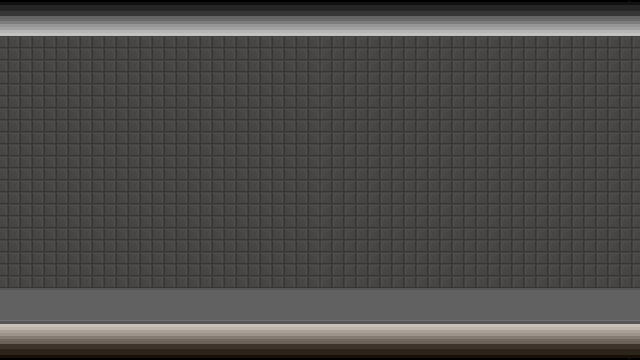
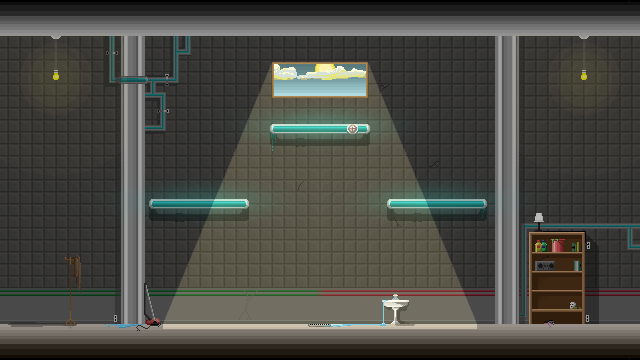
Added sdl2.dll and sdl2-config for windows build

diff --git a/src/Game.cpp b/src/Game.cpp
@@ -70,25 +70,29 @@ void Game::Init(const char *title, int xPos, int yPos, int width, int height, bo
 
     // Create game assets
     map = new GameObject("assets/background.png", Game::renderer, 0, 0, SCREEN_WIDTH, SCREEN_HEIGHT);
-    assets = new GameObject("assets/background_assets.png", Game::renderer, 0, 0, SCREEN_WIDTH, SCREEN_HEIGHT);
+    //assets = new GameObject("assets/background_assets.png", Game::renderer, 0, 0, SCREEN_WIDTH, SCREEN_HEIGHT);
     shadowOverlay = new GameObject("assets/shadow_overlay.png", Game::renderer, 0, 0, SCREEN_WIDTH, SCREEN_HEIGHT, 200);
 
     // Load players
     playerOne = new Character("assets/player_one.bmp", Game::renderer, 130, SCREEN_HEIGHT - 300);
     playerTwo = new Character("assets/player_one.bmp", Game::renderer, SCREEN_WIDTH - 150, SCREEN_HEIGHT - 300);
+
+    // Load tiles
+    tile[0] = new GameObject("assets/platform.png", Game::renderer, 230, SCREEN_HEIGHT - 285, 160, 20, 0);
+    tile[1] = new GameObject("assets/platform.png", Game::renderer, (SCREEN_WIDTH / 2) - 80, SCREEN_HEIGHT - 420, 160, 20, 0);
+    tile[2] = new GameObject("assets/platform.png", Game::renderer, SCREEN_WIDTH - 405, SCREEN_HEIGHT - 285, 160, 20, 0);
+
+    // Populate game objects into vector array for easy update and rendering
+    gameObjects = {map, playerOne, playerTwo, tile[0], tile[1], tile[2], shadowOverlay};
+
     // Load bullets
     for (int i = 0; i < 10; i++)
     {
         bulletOne[i] = new GameObject("assets/bullet.bmp", Game::renderer, 0, 0, 5, 5);
         bulletTwo[i] = new GameObject("assets/bullet.bmp", Game::renderer, 0, 0, 5, 5);
+        gameObjects.push_back(bulletOne[i]);
+        gameObjects.push_back(bulletTwo[i]);
     }
-    // Load tiles
-    tile[0] = new GameObject("assets/platform.png", Game::renderer, 100, SCREEN_HEIGHT - 250, 195, 20);
-    tile[1] = new GameObject("assets/platform.png", Game::renderer, (SCREEN_WIDTH / 2) - 98, SCREEN_HEIGHT - 400, 195, 20);
-    tile[2] = new GameObject("assets/platform.png", Game::renderer, SCREEN_WIDTH - 290, SCREEN_HEIGHT - 250, 195, 20);
-
-    // Populate game objects into vector array for easy update and rendering
-    gameObjects = {map, assets, playerOne, playerTwo, tile[0], tile[1], tile[2], shadowOverlay};
 }
 
 void Game::Start()
@@ -100,7 +104,7 @@ void Game::Start()
         SDL_RenderClear(renderer);
 
         map->Render();
-        assets->Render();
+        // assets->Render();
         shadowOverlay->Render();
 
         SDL_RenderPresent(renderer);
@@ -469,6 +473,17 @@ void Game::Reset()
 {
     playerOne->Reset(150);
     playerTwo->Reset(SCREEN_WIDTH - 150);
+
+    // Reset all bullets to a hidden placement and velocity
+    for (int i = 0; i < 10; i++)
+    {
+        bulletOne[i]->x = -5;
+        bulletOne[i]->y = -5;
+        bulletOne[i]->velX = 0;
+        bulletTwo[i]->x = -5;
+        bulletTwo[i]->y = -5;
+        bulletTwo[i]->velX = 0;
+    }
 
     // Start screen
     Game::Start();

diff --git a/src/Game.hpp b/src/Game.hpp
@@ -16,12 +16,14 @@
 extern const int SCREEN_WIDTH;
 extern const int SCREEN_HEIGHT;
 
-class Game {
+class Game
+{
 private:
     SDL_Window *window;
     int isRunning;
+
 public:
-    void Init( const char *title, int xPos, int yPos, int width, int height, bool fullscreen );
+    void Init(const char *title, int xPos, int yPos, int width, int height, bool fullscreen);
     void HandleEvents();
     void Start();
     void Update();
@@ -29,7 +31,7 @@ public:
     void Clean();
     void Reset();
     bool Running() { return isRunning; };
-    
+
     static SDL_Renderer *renderer;
 };
 
